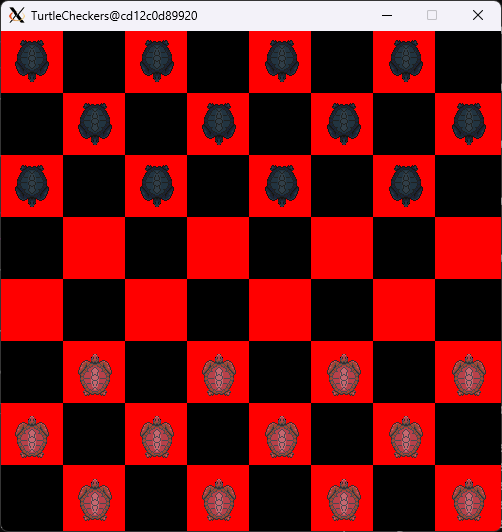
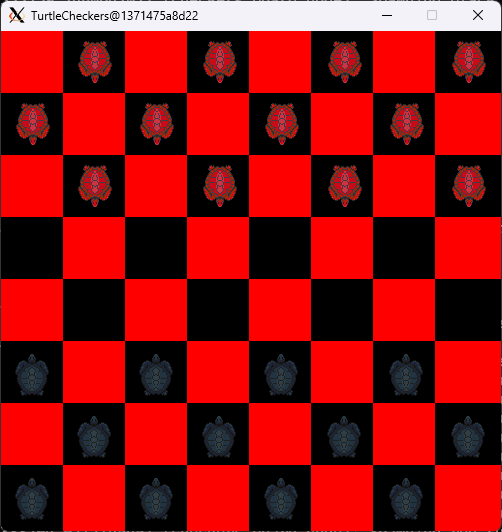
Put the turtles on the right colored squares!

diff --git a/src/checkers_board_frame.cpp b/src/checkers_board_frame.cpp
@@ -17,8 +17,21 @@
 // #include "turtlesim_msgs/srv/kill.hpp"
 // #include "turtlesim_msgs/srv/spawn.hpp"
 
+// Constants
+constexpr size_t NUM_PIECES_PER_PLAYER = 12u;
+
+constexpr size_t NUM_COLS_ROWS = 8u;
+
+constexpr int RED_SQUARES_BG_RGB[3] = {255u, 0u, 0u};
+constexpr int BLACK_SQUARES_BG_RGB[3] = {0u, 0u, 0u};
+
+constexpr float RED_ROTATION = 1.5f * M_PI;
+constexpr float BLACK_ROTATION = 0.5f * M_PI;
+
 CheckersBoardFrame::CheckersBoardFrame(rclcpp::Node::SharedPtr &node_handle, QWidget *parent, Qt::WindowFlags f)
-	: QFrame(parent, f), path_image_(500, 500, QImage::Format_ARGB32), path_painter_(&path_image_), frame_count_(0), id_counter_(0)
+	: QFrame(parent, f), 
+	path_image_(500, 500, QImage::Format_ARGB32), 
+	path_painter_(&path_image_)
 {
 	setFixedSize(500, 500);
 	setWindowTitle("TurtleCheckers");
@@ -71,7 +84,7 @@ CheckersBoardFrame::CheckersBoardFrame(rclcpp::Node::SharedPtr &node_handle, QWi
 
 	QString images_path =
 		(ament_index_cpp::get_package_share_directory("turtle_checkers") + "/img/").c_str();
-		std:: cout << images_path.toStdString() << std::endl;
+	std::cout << images_path.toStdString() << std::endl;
 	for (int i = 0; i < turtles_images.size(); ++i)
 	{
 		QImage r_img;
@@ -81,8 +94,6 @@ CheckersBoardFrame::CheckersBoardFrame(rclcpp::Node::SharedPtr &node_handle, QWi
 		b_img.load(images_path + turtles_images[i] + "_black.png");
 		black_turtle_images_.append(b_img);
 	}
-
-	meter_ = red_turtle_images_[0].height(); // Assume we have at least one red image
 
 	clear();
 
@@ -112,15 +123,16 @@ CheckersBoardFrame::CheckersBoardFrame(rclcpp::Node::SharedPtr &node_handle, QWi
 	RCLCPP_INFO(
 		nh_->get_logger(), "Starting turtle checkers board with node name %s", nh_->get_fully_qualified_name());
 
-	width_in_meters_ = (width() - 1) / meter_;
-	height_in_meters_ = (height() - 1) / meter_;
 
-	const float tile_width = width_in_meters_ / NUM_COLS_ROWS;
-	const float tile_height = width_in_meters_ / NUM_COLS_ROWS;
+	const float meter = red_turtle_images_[0].height(); // Assume we have at least one red image
+	const float width_in_meters = (width() - 1) / meter;
+	const float height_in_meters = (height() - 1) / meter;
+	const float tile_width = width_in_meters / NUM_COLS_ROWS;
+	const float tile_height = height_in_meters / NUM_COLS_ROWS;
 	const float tile_half_width = tile_width / 2.0f;
 	const float tile_half_height = tile_height / 2.0f;
 
-	for (uint32_t i = 0u; i < NUM_COLS_ROWS; i++)
+	for (size_t i = 0u; i < NUM_COLS_ROWS; i++)
 	{
 		if (i % 2u == 0u)
 		{
@@ -137,147 +149,81 @@ CheckersBoardFrame::CheckersBoardFrame(rclcpp::Node::SharedPtr &node_handle, QWi
 			tile_centers_x[(i * 4) + 3] = (6 * tile_width) + tile_half_width;
 		}
 
-		tile_centers_y[(i * 4) + 0] = ((i * tile_height) + tile_half_height);
-		tile_centers_y[(i * 4) + 1] = ((i * tile_height) + tile_half_height);
-		tile_centers_y[(i * 4) + 2] = ((i * tile_height) + tile_half_height);
-		tile_centers_y[(i * 4) + 3] = ((i * tile_height) + tile_half_height);
+		tile_centers_y[(i * 4) + 0] = (i * tile_height) + tile_half_height;
+		tile_centers_y[(i * 4) + 1] = (i * tile_height) + tile_half_height;
+		tile_centers_y[(i * 4) + 2] = (i * tile_height) + tile_half_height;
+		tile_centers_y[(i * 4) + 3] = (i * tile_height) + tile_half_height;
 	}
 
-	const uint32_t image_index = 0u; // Which image to use for both pieces at the start
-
-	// Spawn all the checkers pieces
-	// Red
-	const float RED_ROTATION = static_cast<float>(M_PI) / 2.0f;
-	for (uint32_t i = 0u; i < NUM_PIECES_PER_PLAYER; i++)
-	{
-		spawnRedTurtle("Red" + std::to_string(i + 1), 
-						tile_centers_x[i], 
-						tile_centers_y[i], 
-						RED_ROTATION, 
-						image_index);
-	}
-	// Black
-	const float BLACK_ROTATION = 3.0f * static_cast<float>(M_PI) / 2.0f;
-	for (uint32_t i = 0u; i < NUM_PIECES_PER_PLAYER; i++)
-	{
-		spawnBlackTurtle("Black" + std::to_string(i + 1), 
-							tile_centers_x[i + 20], 
-							tile_centers_y[i + 20], 
-							BLACK_ROTATION, 
-							image_index);
-	}
+	spawnPieces();
 }
 
 CheckersBoardFrame::~CheckersBoardFrame()
 {
 	delete update_timer_;
 }
-/*
-bool CheckersBoardFrame::spawnCallback(
-  const turtlesim_msgs::srv::Spawn::Request::SharedPtr req,
-  turtlesim_msgs::srv::Spawn::Response::SharedPtr res)
-{
-  std::string name = spawnTurtle(req->name, req->x, req->y, req->theta);
-  if (name.empty()) {
-	RCLCPP_ERROR(nh_->get_logger(), "A turtle named [%s] already exists", req->name.c_str());
-	return false;
-  }
 
-  res->name = name;
-
-  return true;
-}
-
-bool CheckersBoardFrame::killCallback(
-  const turtlesim_msgs::srv::Kill::Request::SharedPtr req,
-  turtlesim_msgs::srv::Kill::Response::SharedPtr)
-{
-  M_Turtle::iterator it = turtles_.find(req->name);
-  if (it == turtles_.end()) {
-	RCLCPP_ERROR(
-	  nh_->get_logger(), "Tried to kill turtle [%s], which does not exist", req->name.c_str());
-	return false;
-  }
-
-  turtles_.erase(it);
-  update();
-
-  return true;
-}
-*/
 void CheckersBoardFrame::parameterEventCallback(
 	const rcl_interfaces::msg::ParameterEvent::ConstSharedPtr event)
 {
-	// only consider events from this node
+	// Only consider events from this node
 	if (event->node == nh_->get_fully_qualified_name())
 	{
-		// since parameter events for this event aren't expected frequently just always call update()
+		// Since parameter events for this event aren't expected frequently just always call update()
 		update();
 	}
 }
 
-std::string CheckersBoardFrame::spawnRedTurtle(
-	const std::string &name,
-	float x,
-	float y,
-	float angle,
-	size_t index)
+void CheckersBoardFrame::clearPieces()
 {
-	std::string real_name = name;
-	/*if (real_name.empty()) {
-	  do{
-		std::stringstream ss;
-		ss << "turtle" << ++id_counter_;
-		real_name = ss.str();
-	  } while (hasTurtle(real_name));
-	} else {
-	  if (hasTurtle(real_name)) {
-		return "";
-	  }
-	}*/
-
-	TurtlePtr t = std::make_shared<Turtle>(
-		nh_, real_name, red_turtle_images_[static_cast<int>(index)], QPointF(x, height_in_meters_ - y), angle);
-	red_turtles_[real_name] = t;
-	update();
-
-	RCLCPP_INFO(
-		nh_->get_logger(), "Spawning turtle [%s] at x=[%f], y=[%f], theta=[%f]",
-		real_name.c_str(), x, y, angle);
-
-	return real_name;
 }
 
-std::string CheckersBoardFrame::spawnBlackTurtle(
-	const std::string &name,
-	float x,
-	float y,
-	float angle,
-	size_t index)
+void CheckersBoardFrame::spawnPieces()
 {
-	std::string real_name = name;
-	/*if (real_name.empty()) {
-	  do{
-		std::stringstream ss;
-		ss << "turtle" << ++id_counter_;
-		real_name = ss.str();
-	  } while (hasTurtle(real_name));
-	} else {
-	  if (hasTurtle(real_name)) {
-		return "";
-	  }
-	}*/
+	// Spawn all the checkers pieces
+	// Red
+	for (size_t i = 0u; i < NUM_PIECES_PER_PLAYER; i++)
+	{
+		spawnTurtle("Red" + std::to_string(i + 1),
+					true,
+					tile_centers_x[i],
+					tile_centers_y[i],
+					red_image_index);
+	}
+	// Black
+	for (size_t i = 0u; i < NUM_PIECES_PER_PLAYER; i++)
+	{
+		spawnTurtle("Black" + std::to_string(i + 1),
+					false,
+					tile_centers_x[i + 20],
+					tile_centers_y[i + 20],
+					black_image_index);
+	}
+}
 
-	TurtlePtr t = std::make_shared<Turtle>(
-		nh_, real_name, black_turtle_images_[static_cast<int>(index)], QPointF(x, height_in_meters_ - y), angle);
-	black_turtles_[real_name] = t;
+std::string CheckersBoardFrame::spawnTurtle(const std::string &name, bool red, float x, float y, size_t image_index)
+{
+	if (red)
+	{
+		red_turtles_[name] = std::make_shared<Turtle>(
+			nh_, name, red_turtle_images_[static_cast<int>(image_index)],
+			QPointF(x, y), RED_ROTATION);
+		RCLCPP_INFO(
+			nh_->get_logger(), "Spawning red turtle [%s] at x=[%f], y=[%f], theta=[%f]",
+			name.c_str(), x, y, RED_ROTATION);
+	}
+	else // black
+	{
+		black_turtles_[name] = std::make_shared<Turtle>(
+			nh_, name, black_turtle_images_[static_cast<int>(image_index)],
+			QPointF(x, y), BLACK_ROTATION);
+		RCLCPP_INFO(
+			nh_->get_logger(), "Spawning black turtle [%s] at x=[%f], y=[%f], theta=[%f]",
+			name.c_str(), x, y, BLACK_ROTATION);
+	}
 	update();
 
-	RCLCPP_INFO(
-		nh_->get_logger(), "Spawning turtle [%s] at x=[%f], y=[%f], theta=[%f]",
-		real_name.c_str(), x, y, angle);
-
-	return real_name;
+	return name;
 }
 
 void CheckersBoardFrame::clear()
@@ -308,9 +254,9 @@ void CheckersBoardFrame::paintEvent(QPaintEvent *event)
 	float tile_width = width() / NUM_COLS_ROWS;
 	float tile_height = height() / NUM_COLS_ROWS;
 
-	for (int i = 0; i < NUM_COLS_ROWS; i++)
+	for (size_t i = 0u; i < NUM_COLS_ROWS; i++)
 	{
-		for (int j = 0; j < NUM_COLS_ROWS; j++)
+		for (size_t j = 0u; j < NUM_COLS_ROWS; j++)
 		{
 			int r = ((i + j) % 2 == 0) ? RED_SQUARES_BG_RGB[0] : BLACK_SQUARES_BG_RGB[0];
 			int g = ((i + j) % 2 == 0) ? RED_SQUARES_BG_RGB[1] : BLACK_SQUARES_BG_RGB[1];
@@ -342,28 +288,6 @@ void CheckersBoardFrame::paintEvent(QPaintEvent *event)
 	}
 }
 
-/*void CheckersBoardFrame::updateTurtles()
-{
-  if (last_turtle_update_.nanoseconds() == 0) {
-	last_turtle_update_ = nh_->now();
-	return;
-  }
-
-  bool modified = false;
-  M_Turtle::iterator it = turtles_.begin();
-  M_Turtle::iterator end = turtles_.end();
-  for (; it != end; ++it) {
-	modified |= it->second->update(
-	  0.001 * update_timer_->interval(), path_painter_, path_image_, width_in_meters_,
-	  height_in_meters_);
-  }
-  if (modified) {
-	update();
-  }
-
-  ++frame_count_;
-}*/
-
 bool CheckersBoardFrame::clearCallback(
 	const std_srvs::srv::Empty::Request::SharedPtr,
 	std_srvs::srv::Empty::Response::SharedPtr)
@@ -378,9 +302,8 @@ bool CheckersBoardFrame::resetCallback(
 	std_srvs::srv::Empty::Response::SharedPtr)
 {
 	RCLCPP_INFO(nh_->get_logger(), "Resetting checkers.");
-	// turtles_.clear();
-	id_counter_ = 0;
-	// spawnTurtle("", width_in_meters_ / 2.0, height_in_meters_ / 2.0, 0);
+	clearPieces();
+	spawnPieces();
 	clear();
 	return true;
 }

diff --git a/include/checkers_board_frame.hpp b/include/checkers_board_frame.hpp
@@ -36,8 +36,7 @@ public:
 
 	void setupGame();
 
-	std::string spawnRedTurtle(const std::string &name, float x, float y, float angle, size_t index);
-	std::string spawnBlackTurtle(const std::string &name, float x, float y, float angle, size_t index);
+	std::string spawnTurtle(const std::string &name, bool red, float x, float y, size_t image_index);
 
 protected:
 	void paintEvent(QPaintEvent *event);
@@ -46,9 +45,10 @@ private slots:
 	void onUpdate();
 
 private:
-	// void updateTurtles();
 	void clear();
-	// bool hasTurtle(const std::string &name);
+
+	void clearPieces();
+	void spawnPieces();
 
 	bool clearCallback(
 		const std_srvs::srv::Empty::Request::SharedPtr,
@@ -71,10 +71,6 @@ private:
 	QImage path_image_;
 	QPainter path_painter_;
 
-	uint64_t frame_count_;
-
-	rclcpp::Time last_turtle_update_;
-
 	rclcpp::Service<std_srvs::srv::Empty>::SharedPtr clear_srv_;
 	rclcpp::Service<std_srvs::srv::Empty>::SharedPtr reset_srv_;
 	// rclcpp::Service<turtlesim_msgs::srv::Spawn>::SharedPtr spawn_srv_;
@@ -84,21 +80,13 @@ private:
 	typedef std::map<std::string, TurtlePtr> M_Turtle;
 	M_Turtle red_turtles_;
 	M_Turtle black_turtles_;
-	uint32_t id_counter_;
-	const static uint32_t NUM_PIECES_PER_PLAYER = 12;
 
 	QVector<QImage> red_turtle_images_;
+	size_t red_image_index = 0u;
 	QVector<QImage> black_turtle_images_;
+	size_t black_image_index = 0u;
 
-	float meter_;
-	float width_in_meters_;
-	float height_in_meters_;
-	const static int NUM_COLS_ROWS = 8;
-
-	const static int NUM_PLAYABLE_TILES = 32;
+	constexpr static size_t NUM_PLAYABLE_TILES = 32u;
 	float tile_centers_x[NUM_PLAYABLE_TILES];
 	float tile_centers_y[NUM_PLAYABLE_TILES];
-
-	const int RED_SQUARES_BG_RGB[3] = {255, 0, 0};
-	const int BLACK_SQUARES_BG_RGB[3] = {0, 0, 0};
 };
